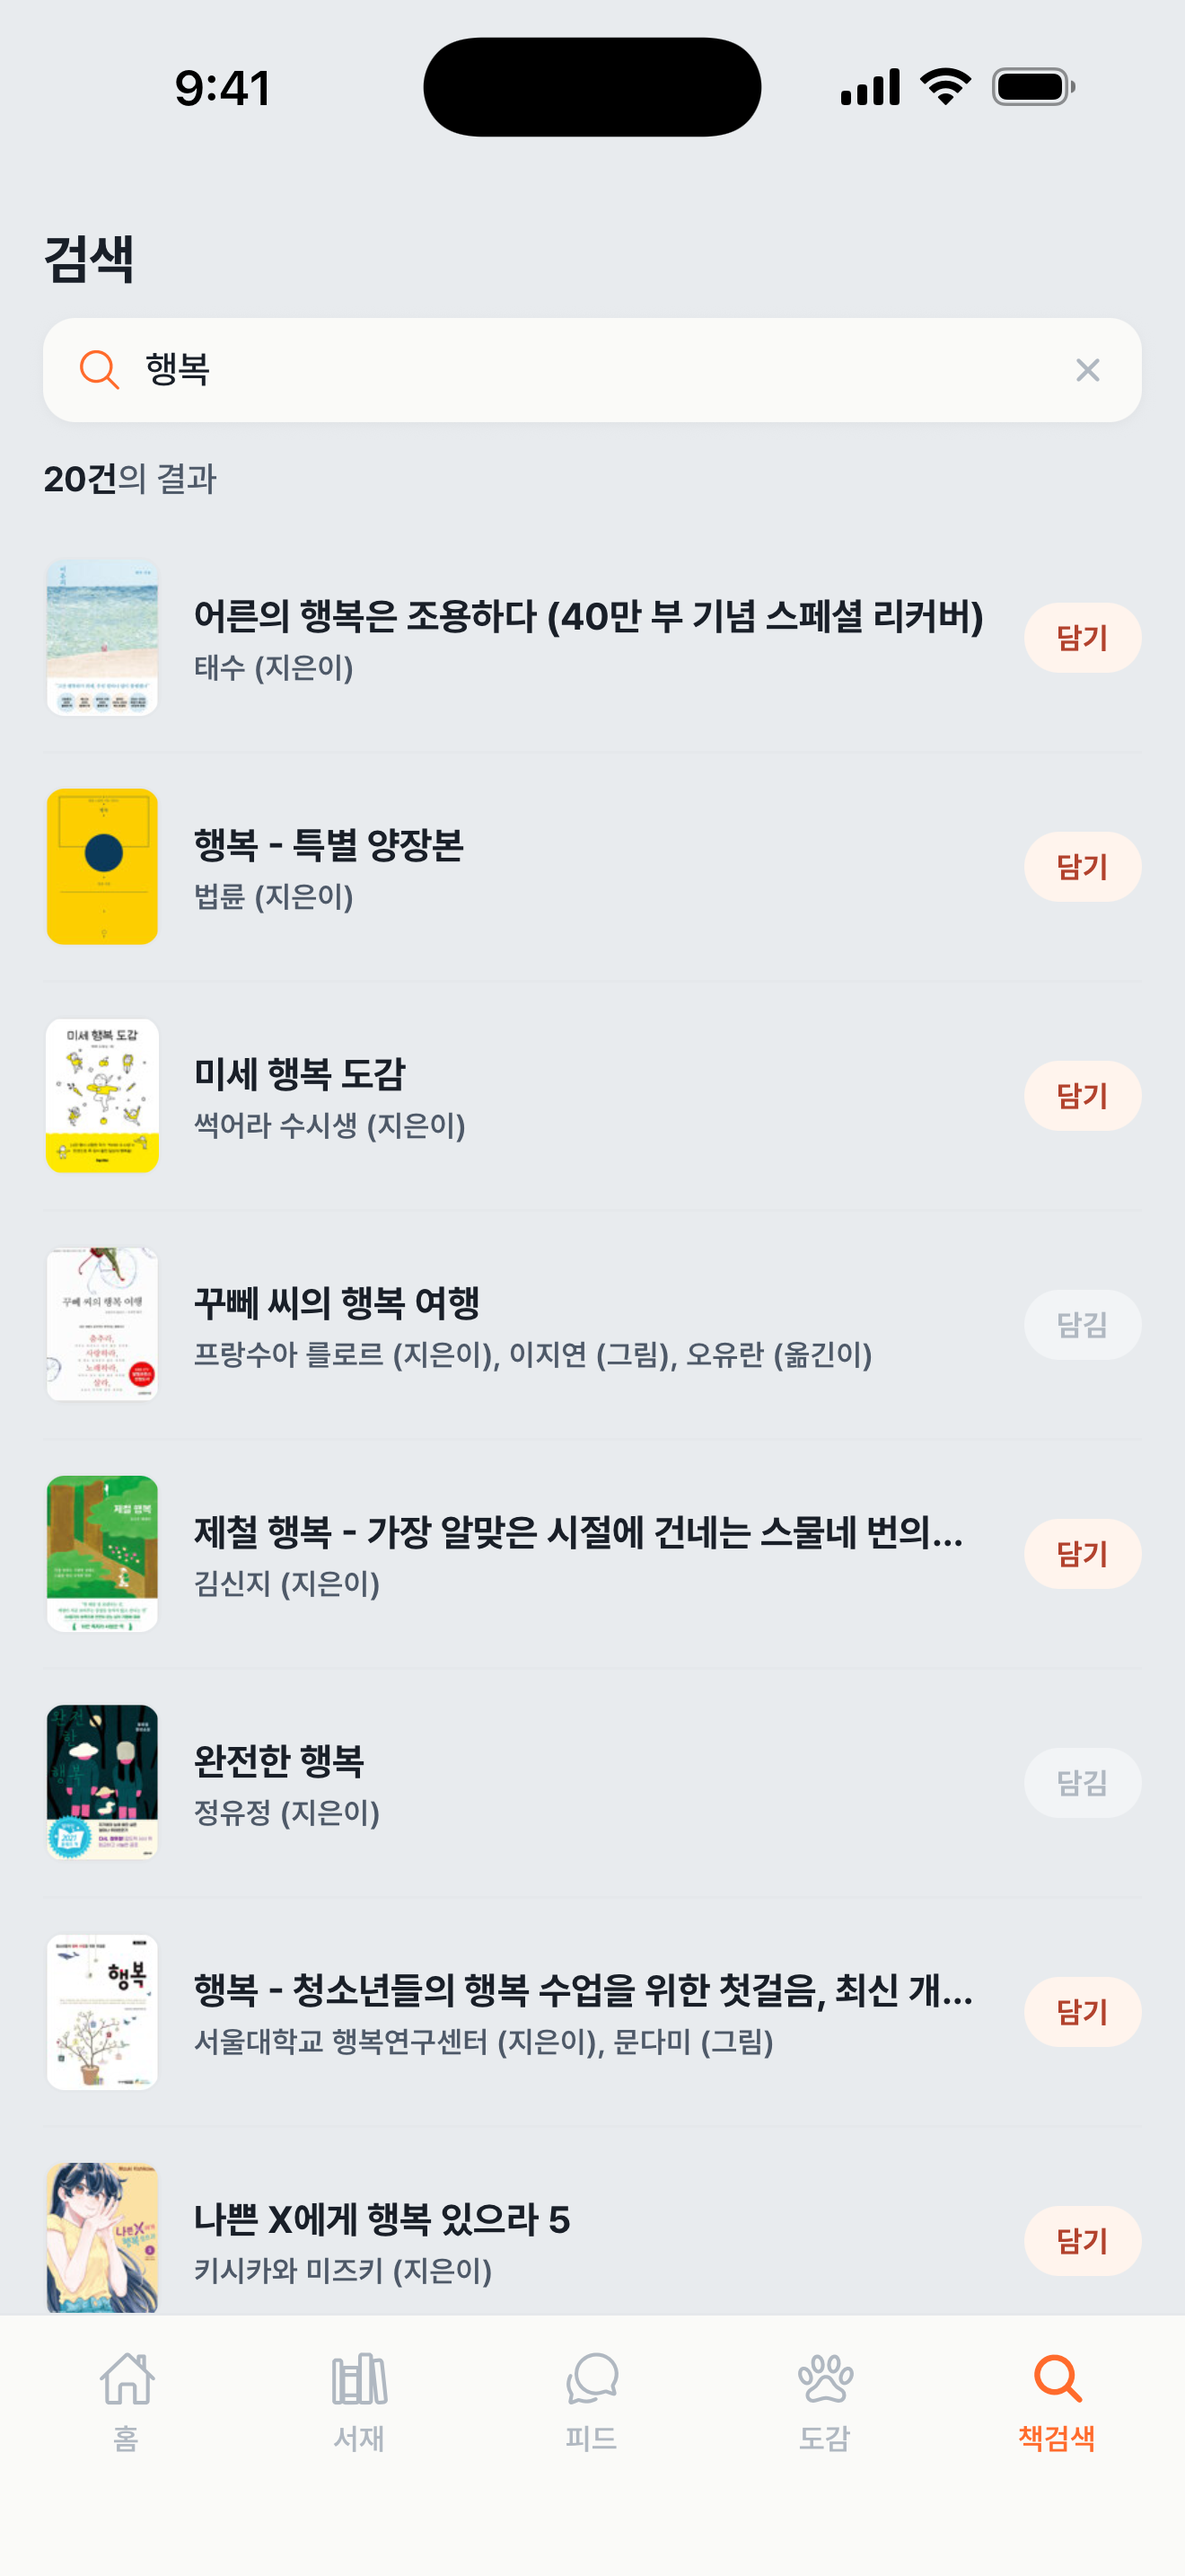
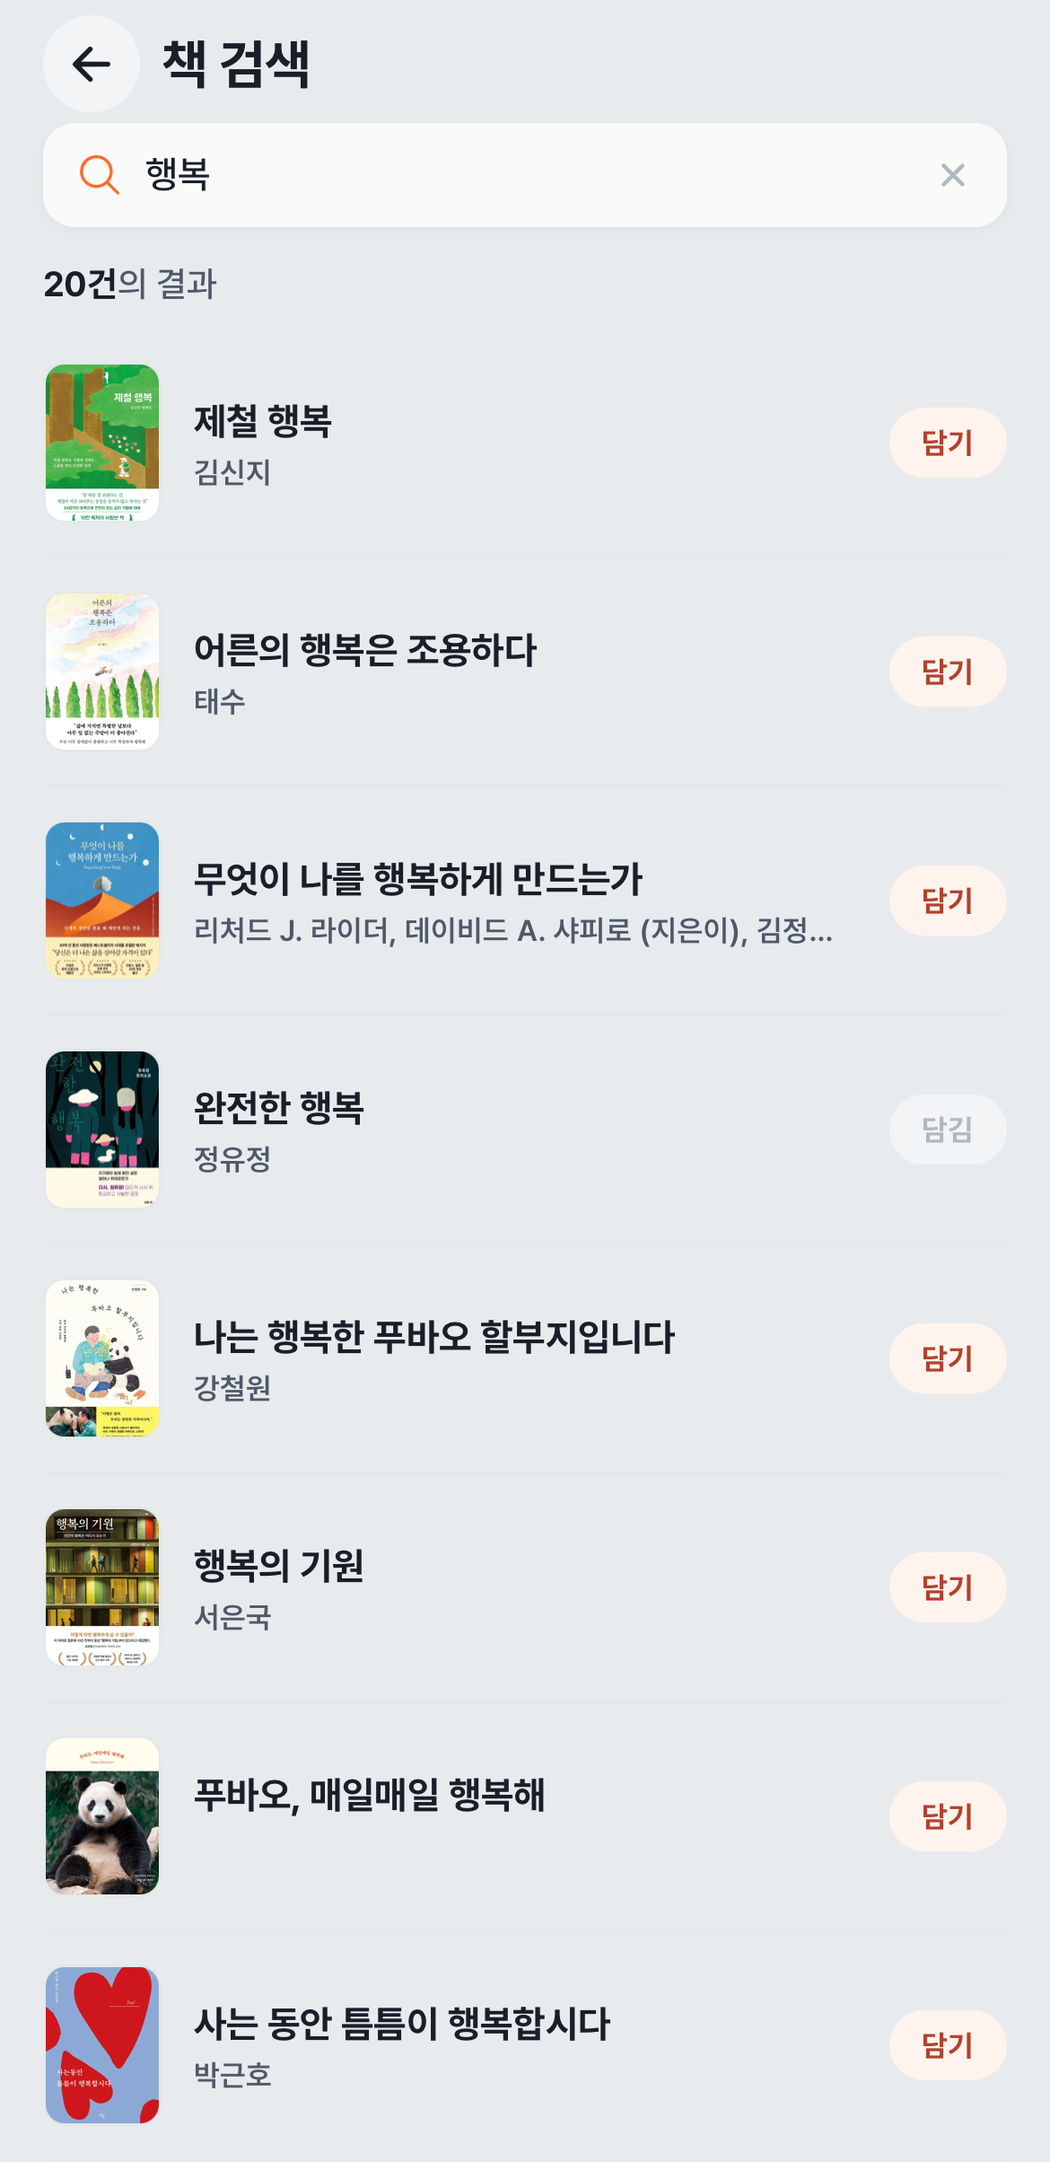
chore(landing): 앱 스크린샷·로고 최신화 + 약관 도서 정보 출처 정정
- 스크린샷 6장을 2.1.4 화면으로 교체(홈 개편, 최근 독서기록, 읽는 순서 등 반영).
  상태바만 잘라내고 원본 해상도 유지.
- icon/favicon 을 새 앱 로고로 교체. 기존에는 예전 앱 아이콘이라 스토어와 달랐다.
- 알라딘 OpenAPI 를 걷어내고 카카오 다음 책 검색 API + 도서관 정보나루로 옮겼는데
  약관과 처리방침에는 알라딘이 그대로 적혀 있었다. 두 문서의 도서 정보 출처를 정정.
- 광고 표현을 배너에서 보상형으로 정정. 실제로는 배너를 쓰지 않고 책갈피 지급용
  보상형 광고만 노출한다. 이용자가 시청을 선택한 경우에만 재생된다는 설명 추가.
- 두 문서 시행일 2026-09-14 로 갱신하고 이전 시행일 병기.

diff --git a/src/pages/privacy.md b/src/pages/privacy.md
@@ -6,7 +6,9 @@ description: 퍼필(PerFil) 개인정보 처리방침
 
 # 퍼필(PerFil) 개인정보 처리방침
 
-**시행일: 2026년 5월 1일**
+**시행일: 2026년 9월 14일**
+
+**이전 버전 시행일: 2026년 5월 1일**
 
 ---
 
@@ -45,7 +47,7 @@ description: 퍼필(PerFil) 개인정보 처리방침
 - **회원 식별 및 서비스 제공**: 로그인, 독서 기록 저장 및 관리, 개인화 서비스 제공
 - **서비스 개선**: 이용 현황 분석, 기능 개선 및 신규 서비스 개발
 - **고객 지원**: 1:1 문의 접수 및 답변, 공지사항 전달
-- **광고 게재 및 측정**: 무료 서비스 운영을 위한 배너 광고 노출 및 효과 측정
+- **광고 게재 및 측정**: 무료 서비스 운영을 위한 보상형 광고 노출 및 효과 측정
 
 ## 제4조 (개인정보 보유 및 이용 기간)
 
@@ -69,17 +71,18 @@ description: 퍼필(PerFil) 개인정보 처리방침
 | 수탁자 | 위탁 업무 |
 |---|---|
 | Oracle Corporation (Oracle Cloud Infrastructure) | 서비스 인프라 운영 및 데이터 저장<br>데이터 저장 위치: 대한민국 (춘천 리전) |
-| Google LLC (Google AdMob) | 앱 내 배너 광고 게재 및 광고 효과 측정<br>처리 항목: 광고 식별자(IDFA/AAID), 기기 정보, 대략적 위치(국가/지역 단위) |
+| Google LLC (Google AdMob) | 앱 내 보상형 광고 게재 및 광고 효과 측정<br>처리 항목: 광고 식별자(IDFA/AAID), 기기 정보, 대략적 위치(국가/지역 단위) |
 | Google LLC (Google Sign-In) | 구글 소셜 로그인 인증 처리 |
 | Kakao Corp. | 카카오 소셜 로그인 인증 처리 |
 | Apple Inc. | Apple 소셜 로그인 인증 처리 |
-| 알라딘커뮤니케이션 | 도서 정보(제목·저자·표지·소개 등) 조회용 OpenAPI 제공<br>※ 이용자의 개인정보는 알라딘에 전달되지 않습니다. |
+| Kakao Corp. (다음 책 검색 API) | 도서 정보(제목·저자·출판사·표지·소개 등) 조회용 API 제공<br>※ 이용자의 개인정보는 전달되지 않으며, 검색어만 전송됩니다. |
+| 한국문화정보원 (도서관 정보나루) | 인기 대출 도서 목록 조회용 공공 API 제공<br>※ 이용자의 개인정보는 전달되지 않습니다. |
 
 위탁 계약 시 개인정보 보호 관련 지시 엄수, 개인정보에 관한 비밀 유지, 제3자 제공 금지 등을 규정하고 이를 관리·감독합니다.
 
 ## 제7조 (광고 식별자 및 맞춤형 광고)
 
-① 회사는 무료 서비스 운영을 위해 앱 내에 Google AdMob을 통한 배너 광고를 게재합니다.
+① 회사는 무료 서비스 운영을 위해 앱 내에 Google AdMob을 통한 보상형 광고를 게재합니다. 보상형 광고는 이용자가 직접 시청을 선택한 경우에만 재생되며, 시청을 완료하면 앱 내 재화(책갈피)가 지급됩니다.
 ② iOS 14.5 이상 기기에서는 운영체제의 "앱 추적 허용" 권한 요청을 통해 이용자의 동의를 받은 후에만 광고 식별자(IDFA)를 사용합니다. 이용자가 거부하더라도 일반(비맞춤형) 광고는 정상적으로 표시되며, 앱의 다른 기능 사용에는 제한이 없습니다.
 ③ Android 기기에서는 시스템 설정 → Google → 광고에서 광고 ID를 재설정하거나 맞춤형 광고를 거부할 수 있습니다.
 ④ iOS 기기에서는 시스템 설정 → 개인정보 보호 및 보안 → 추적에서 권한을 변경할 수 있습니다.

diff --git a/src/pages/terms.md b/src/pages/terms.md
@@ -6,7 +6,9 @@ description: 퍼필(PerFil) 서비스 이용약관
 
 # 퍼필(PerFil) 서비스 이용약관
 
-**시행일: 2026년 5월 1일**
+**시행일: 2026년 9월 14일**
+
+**이전 버전 시행일: 2026년 5월 1일**
 
 ---
 
@@ -62,7 +64,7 @@ description: 퍼필(PerFil) 서비스 이용약관
 
 ## 제8조 (저작권)
 
-① 서비스 내 도서 정보(제목, 저자, 출판사, 표지 이미지, 책 소개 등)는 알라딘 인터넷서점(www.aladin.co.kr)의 도서 DB API를 통해 제공되며, 그 저작권은 원 권리자에게 귀속됩니다.
+① 서비스 내 도서 정보(제목, 저자, 출판사, 표지 이미지, 책 소개 등)는 카카오 다음 책 검색 API를 통해 제공되며, 인기 대출 도서 정보는 도서관 정보나루(한국문화정보원)의 공공데이터를 이용합니다. 해당 정보의 저작권은 원 권리자에게 귀속됩니다.
 ② 이용자가 서비스에 작성한 독서 메모·별점·기록 등의 저작권은 이용자 본인에게 귀속됩니다.
 ③ 서비스의 UI·디자인·로고·일러스트·폰트 등 회사가 제작한 콘텐츠의 저작권은 회사에 귀속됩니다.
 
@@ -75,7 +77,7 @@ description: 퍼필(PerFil) 서비스 이용약관
 
 ① 회사는 천재지변, 전쟁, 불가항력적 사유로 서비스를 제공할 수 없는 경우 책임을 지지 않습니다.
 ② 회사는 이용자의 귀책 사유로 인한 서비스 이용 장애에 대하여 책임을 지지 않습니다.
-③ 회사는 서비스를 통해 얻은 도서 정보의 정확성·완전성에 대해 보증하지 않으며, 해당 정보는 알라딘 인터넷서점의 데이터에 기반합니다.
+③ 회사는 서비스를 통해 얻은 도서 정보의 정확성·완전성에 대해 보증하지 않으며, 해당 정보는 카카오 다음 책 검색 API 및 도서관 정보나루의 데이터에 기반합니다.
 ④ 회사는 앱 내에 표시되는 제3자 광고의 내용 및 그로 인한 거래에 대해 책임을 지지 않습니다.
 
 ## 제11조 (준거법 및 관할법원)
